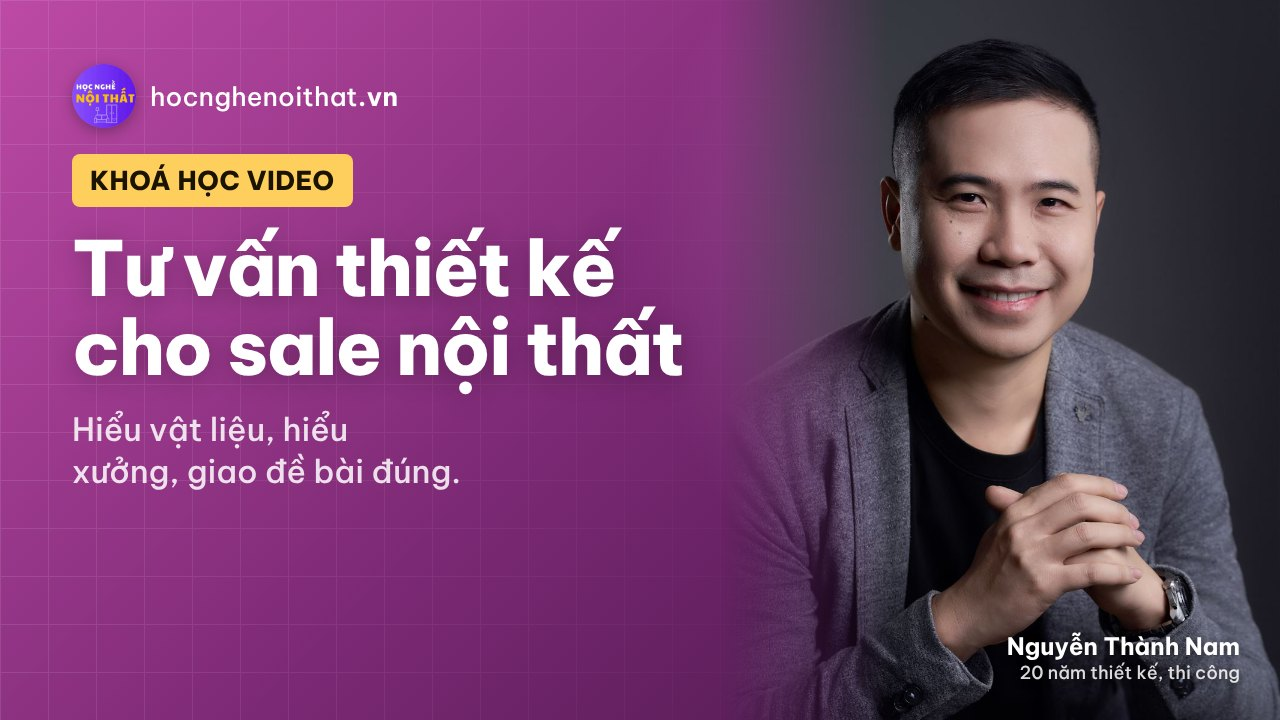
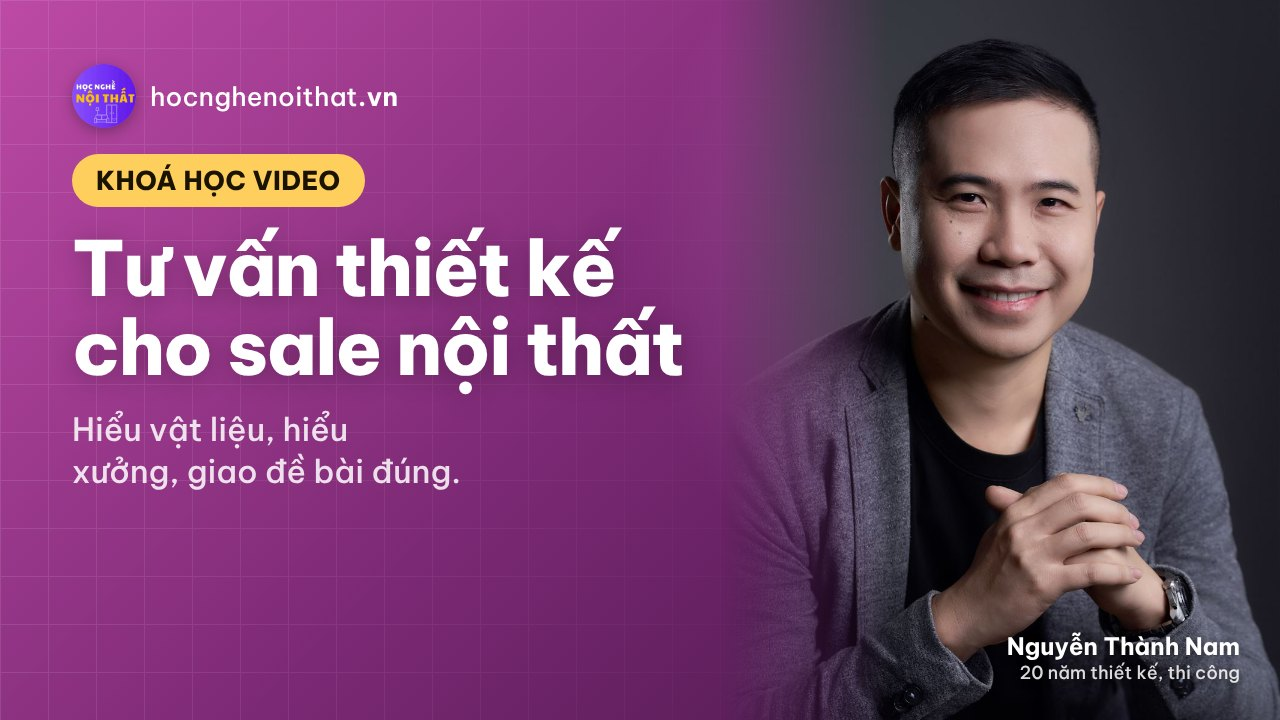
Nhãn chữ nhỏ (Dành cho sale nội thất, Nên học trước...), nhãn vàng và nút phát trên thumbnail đều bo tròn kiểu viên nhộng
Claude-Session: https://claude.ai/code/session_01R1JQNXKSkK2vrspryuBMNZ

Changed region(s): [[0.0312, 0.2139, 0.3125, 0.275]]

diff --git a/cong-cu/thumbnail/mau.html b/cong-cu/thumbnail/mau.html
@@ -25,7 +25,7 @@
   .brand{ display:flex; align-items:center; font-size:26px; font-weight:500; letter-spacing:.01em; }
   .brand img{ width:64px; height:64px; margin-right:14px; border-radius:50%; box-shadow:0 4px 14px rgba(0,0,0,.3); }
   .brand b{ font-weight:700; }
-  .tag{ display:inline-block; margin-top:26px; padding:10px 18px; border-radius:8px; background:#FFCF5E; color:#1A1300; font-size:26px; font-weight:800; letter-spacing:.02em; text-transform:uppercase; }
+  .tag{ display:inline-block; margin-top:26px; padding:10px 24px; border-radius:999px; background:#FFCF5E; color:#1A1300; font-size:26px; font-weight:800; letter-spacing:.02em; text-transform:uppercase; }
   h1{ margin-top:22px; font-size:76px; line-height:1.04; font-weight:800; letter-spacing:-0.025em; text-shadow:0 4px 24px rgba(0,0,0,.25); }
   .sub{ margin-top:22px; font-size:32px; line-height:1.3; font-weight:500; color:rgba(255,255,255,.85); max-width:600px; text-wrap:balance; }
   .name{ position:absolute; right:40px; bottom:36px; text-align:right; font-size:24px; font-weight:700; text-shadow:0 2px 10px rgba(0,0,0,.6); }

diff --git a/bai-viet/bai-viet.css b/bai-viet/bai-viet.css
@@ -94,4 +94,5 @@ h1,h2{ margin:0; font-weight:300; }
 @media (max-width:479px){ .brand{ font-size:0; } .brand-logo{ width:40px; height:40px; margin-right:0; } .top-links a{ font-size:15px; padding:10px 8px; } }
 
 /* Mọi nút bo tròn kiểu viên nhộng */
-.btn, .zalo-float, .back{ border-radius:999px; }
+.btn, .zalo-float, .back, .post-cat{ border-radius:999px; }
+.post-cat{ padding-left:12px; padding-right:12px; }

diff --git a/index.html b/index.html
@@ -758,6 +758,8 @@
   /* Mọi nút bo tròn kiểu viên nhộng, nút menu hình tròn */
   .btn, .zalo-float{ border-radius:999px; }
   .menu-btn{ border-radius:50%; }
+  .badge, .post-cat, .yt-play{ border-radius:999px; }
+  .badge, .post-cat{ padding-left:12px; padding-right:12px; }
   .btn{ padding-left:26px; padding-right:26px; }
 
   .stat-num{ font-variant-numeric:tabular-nums; }

diff --git a/khoa-hoc/khoa-hoc.css b/khoa-hoc/khoa-hoc.css
@@ -63,3 +63,5 @@ figcaption{ margin-top:8px; font-size:14px; color:var(--muted); }
 .hero .back{ display:flex; width:max-content; margin-bottom:8px; }
 .pgrid figure:only-child{ grid-column:1 / -1; }
 .btn{ border-radius:999px; }
+.tag, .yt-play{ border-radius:999px; }
+.tag{ padding-left:12px; padding-right:12px; }
